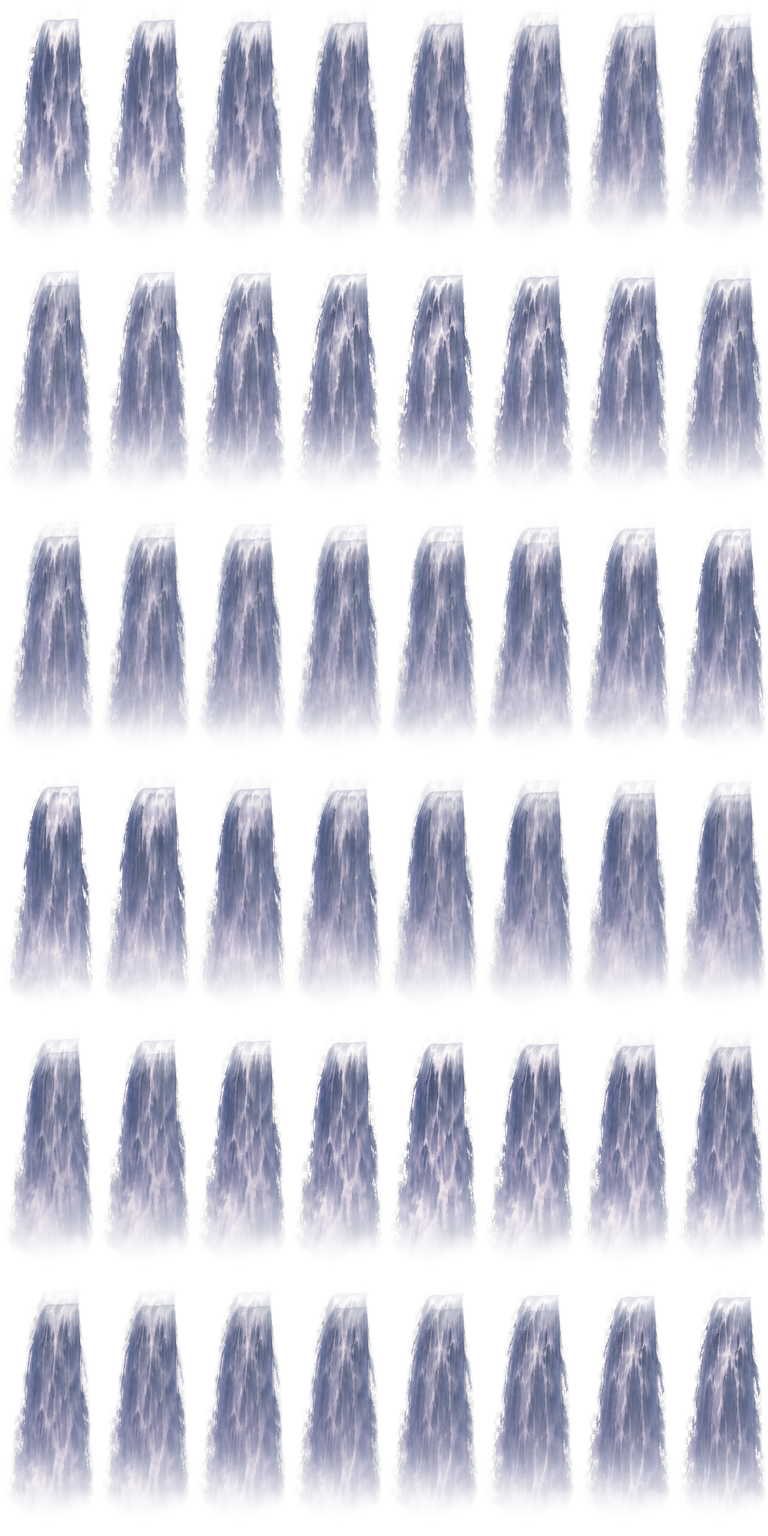
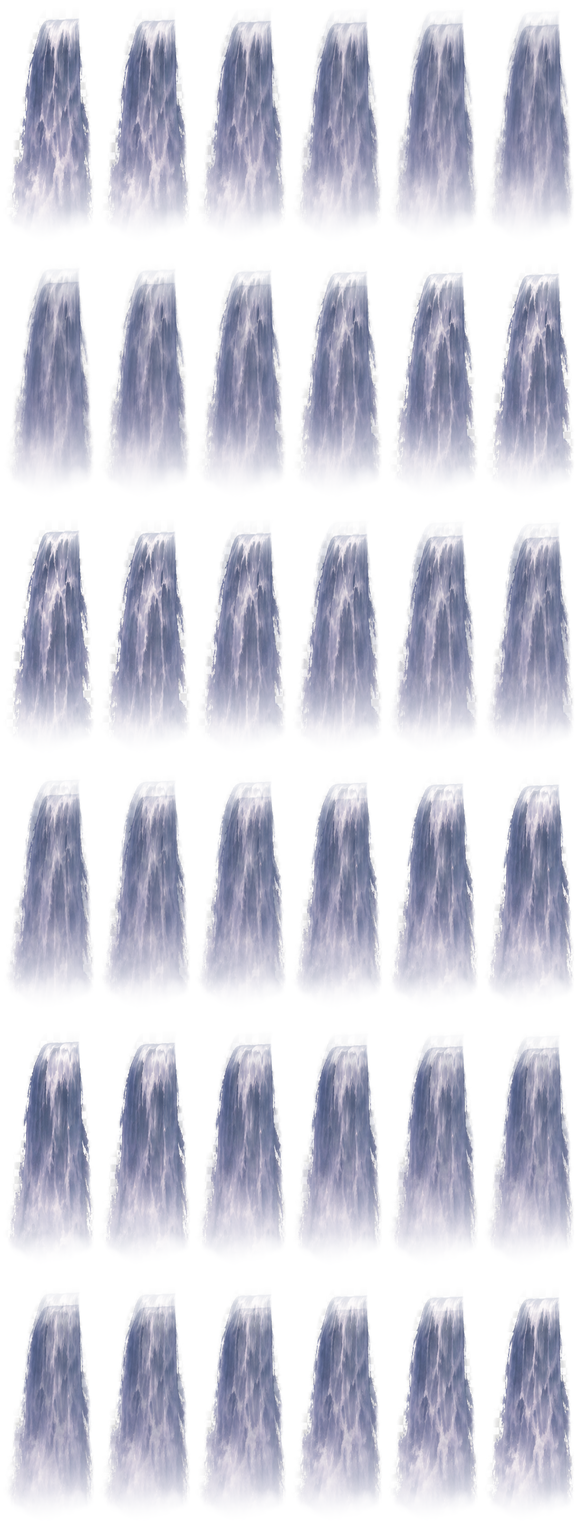
Карта леса: водопад из озера в ущелье — ручей течёт к кромке, скруглённый перелив, петли водопадов без рывка и мерцания
Claude-Session: https://claude.ai/code/session_01T1TvTKEmq5UwoYPTycnMDC

diff --git a/Assets/_Project/Scripts/Game/MapLife.cs b/Assets/_Project/Scripts/Game/MapLife.cs
@@ -240,12 +240,12 @@ namespace BladePath
         static readonly Vector4[][] SheetFalls =
         {
             new[] { new Vector4(281, 74, 100, 36), new Vector4(298, 158, 70, 46), new Vector4(318, 205, 90, 58),
-                    new Vector4(405, 370, 44, 22), new Vector4(556, 550, 58, 26), new Vector4(2284, 425, 190, 56) },
+                    new Vector4(405, 370, 44, 22), new Vector4(556, 550, 58, 26), new Vector4(2280, 397, 218, 62) },
         };
-        static readonly Vector3[][] SheetFallLook =   // лист, прозрачность, подножие
+        static readonly Vector3[][] SheetFallLook =   // лист (0 fade, 1 mid, 2 lip — перелив из ручья), прозрачность, подножие
         {
             new[] { new Vector3(0, 0.62f, 0), new Vector3(1, 0.55f, 0), new Vector3(1, 0.55f, 1),
-                    new Vector3(0, 0.6f, 1), new Vector3(0, 0.6f, 1), new Vector3(0, 0.9f, 2) },
+                    new Vector3(0, 0.6f, 1), new Vector3(0, 0.6f, 1), new Vector3(2, 0.9f, 2) },
         };
 
         static void SheetFrame(Rect r, Texture2D tex, int cols, int rows, int frames, float age, float fps, float a, bool ping)
@@ -253,7 +253,8 @@ namespace BladePath
             float f = age * fps; int span = ping ? frames * 2 - 2 : frames;
             int i0 = (int)Mathf.Repeat(Mathf.Floor(f), span), i1 = (i0 + 1) % span; float kk = f - Mathf.Floor(f);
             if (ping) { if (i0 >= frames) i0 = span - i0; if (i1 >= frames) i1 = span - i1; }
-            GUI.color = new Color(1f, 1f, 1f, a * (1f - kk)); GUI.DrawTextureWithTexCoords(r, tex, SheetCell(i0, cols, rows));
+            // текущий кадр целиком, следующий проявляется поверх: прозрачность не проседает посреди перехода (не мерцает)
+            GUI.color = new Color(1f, 1f, 1f, a); GUI.DrawTextureWithTexCoords(r, tex, SheetCell(i0, cols, rows));
             if (kk > 0.01f) { GUI.color = new Color(1f, 1f, 1f, a * kk); GUI.DrawTextureWithTexCoords(r, tex, SheetCell(i1, cols, rows)); }
         }
         static Rect SheetCell(int k, int cols, int rows) { int c = k % cols, rw = k / cols; return new Rect(c / (float)cols, 1f - (rw + 1) / (float)rows, 1f / cols, 1f / rows); }
@@ -261,16 +262,25 @@ namespace BladePath
         static void DrawSheetFalls(int region, Rect view, float u0, float uw, float t, Texture2D mist)
         {
             if (region >= SheetFalls.Length) return;
-            Texture2D wfFade = UiKit.Tex("UI/fx_waterfall_fade"), wfMid = UiKit.Tex("UI/fx_waterfall_mid"), sp = UiKit.Tex("UI/fx_splash");
+            Texture2D wfFade = UiKit.Tex("UI/fx_waterfall_fade"), wfMid = UiKit.Tex("UI/fx_waterfall_mid"), wfLip = UiKit.Tex("UI/fx_waterfall_lip"), sp = UiKit.Tex("UI/fx_splash");
             if (wfFade == null) return;
             float px = view.height / MapGeom.TexH, texW = MapGeom.TexW[Mathf.Clamp(region, 0, MapGeom.TexW.Length - 1)];
+            if (region == 0)
+            {
+                // нарисованный ручей из озера бежит к кромке водопада в ущелье (блики вдоль русла, петля 36 кадров)
+                Texture2D st = UiKit.Tex("UI/fx_stream");
+                float sx = view.x + (2226f / texW - u0) / uw * view.width;
+                if (st != null && sx > view.x - 200f && sx < view.xMax + 200f)
+                    SheetFrame(new Rect(sx, 370f * px, 76f * px, 42f * px), st, 6, 6, 36, t, 24f, 1f, false);
+            }
             Vector4[] fs = SheetFalls[region]; Vector3[] look = SheetFallLook[region];
             for (int i = 0; i < fs.Length; i++)
             {
                 Vector4 f = fs[i]; Vector3 lk = look[i];
                 float x = view.x + (f.x / texW - u0) / uw * view.width, y = f.y * px, h = f.z * px, w = f.w * px;
                 if (x < view.x - 200f || x > view.xMax + 200f) continue;
-                SheetFrame(new Rect(x - w * 0.5f, y, w, h), lk.x > 0.5f && wfMid != null ? wfMid : wfFade, 8, 6, 48, t + i * 0.37f, 24f, lk.y, false);
+                Texture2D sheet = lk.x > 1.5f && wfLip != null ? wfLip : lk.x > 0.5f && wfMid != null ? wfMid : wfFade;
+                SheetFrame(new Rect(x - w * 0.5f, y, w, h), sheet, 6, 6, 36, t + i * 0.37f, 24f, lk.y, false);   // бесшовная петля 36 кадров
                 if (lk.z > 0.5f && lk.z < 1.5f && sp != null)
                 {
                     float sw = w * 1.9f, sh = sw * 128f / 192f;

diff --git a/Assets/_Project/Scripts/Editor/IllustrationImport.cs b/Assets/_Project/Scripts/Editor/IllustrationImport.cs
@@ -9,7 +9,7 @@ namespace BladePath.EditorTools
     /// </summary>
     public class IllustrationImport : AssetPostprocessor
     {
-        public override uint GetVersion() { return 5; }
+        public override uint GetVersion() { return 6; }
 
         static bool IsIllustration(string path)
         {
@@ -19,7 +19,7 @@ namespace BladePath.EditorTools
             // картины в окнах карты (2026-11-09): враги и NPC 683×1024 уходили в 512×1024 — окно строилось по этим размерам,
             // и картина выходила сплюснутой по ширине на четверть; фоны привала, игорного дома, таверны, конца области — тоже
             if (name.StartsWith("enemy_full_") || name.StartsWith("npc_") || name.StartsWith("region_clear_") || name == "camp" || name == "dice_bg" || name == "tavern") return true;
-            if (name.StartsWith("fx_ui_") || name == "fx_campfire" || name == "fx_mist" || name == "map_daytime" || name.StartsWith("shop_") || name == "items4" || name == "items5" || name == "items6" || name.StartsWith("fx_waterfall") || name == "fx_splash") return true;   // листы кадров — без растяжения до степени двойки (кадры не мылятся)
+            if (name.StartsWith("fx_ui_") || name == "fx_campfire" || name == "fx_mist" || name == "map_daytime" || name.StartsWith("shop_") || name == "items4" || name == "items5" || name == "items6" || name.StartsWith("fx_waterfall") || name == "fx_splash" || name == "fx_stream") return true;   // листы кадров — без растяжения до степени двойки (кадры не мылятся)
             if (name.StartsWith("event_"))
             {
                 int n;
